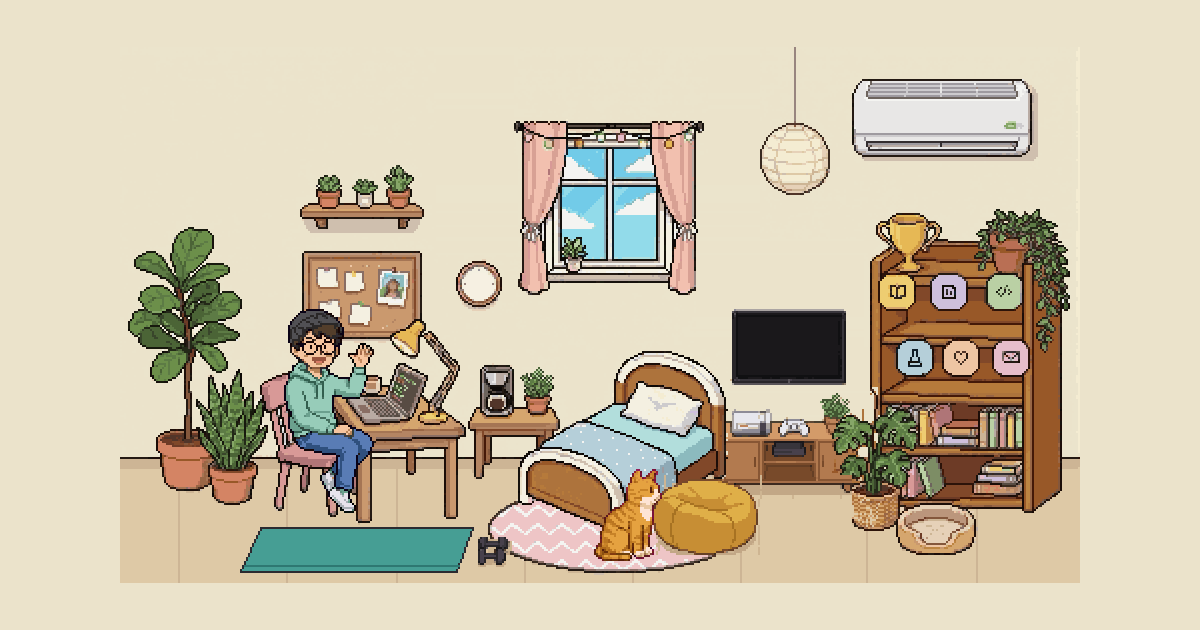
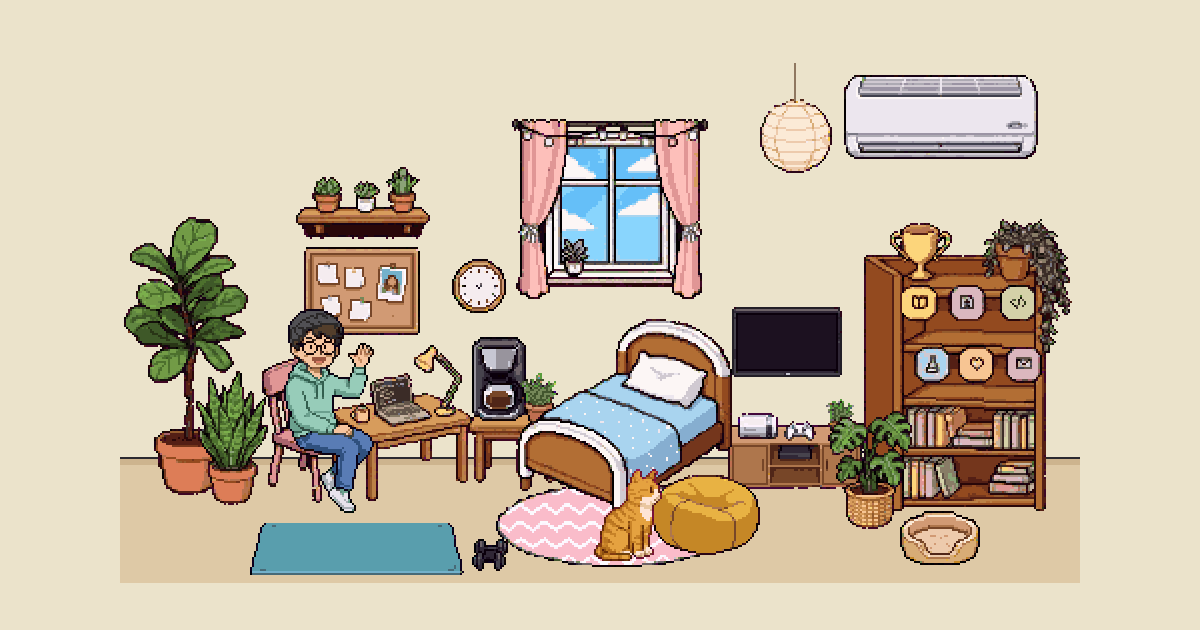
home: build the room from separate sprites
Cutting furniture out of one flat picture kept leaving broken edges and wrong
layers. Every piece is now drawn on its own in furniture.png and placed in code,
so depth is exact and the two layouts use the same art. Wall and floor are
painted, sleeping swaps the bed sprite, and the cat curls up in its own bed.

Changed region(s): [[0.0925, 0.181, 0.8942, 0.9349], [0.6167, 0.1206, 0.8633, 0.3317]]

diff --git a/sites/home/public/game.js b/sites/home/public/game.js
@@ -97,7 +97,7 @@
     tall: true,
     offs: {
       ac: [-356, -4], lantern: [-94, 0], window: [-192, 28], clock: [-58, 8], cork: [-77, 58], shelf: [-208, 48],
-      coffee: [-170, 56], desk: [-2, 168], bed: [-46, 210], bag: [-200, 62], mat: [-52, 180]
+      coffee: [-170, 56], desk: [-2, 168], bed: [-46, 210], bag: [-200, 62], mat: [-52, 180], succs: [8, 90]
     }
   };
   let L = WIDE;
@@ -109,15 +109,15 @@
 
   // Lights: id, group, x, y, radius
   const LIGHTS = [
-    { id: 'desk', group: 'desk', x: 146, y: 152, r: 74, c: '255,206,130' },
-    { id: 'lantern', group: 'lantern', x: 338, y: 58, r: 100, c: '255,224,170' },
-    { id: 'tv', group: 'shelf', x: 332, y: 150, r: 64, c: '150,190,255' }
+    { id: 'desk', group: 'desk', x: 152, y: 160, r: 74, c: '255,206,130' },
+    { id: 'lantern', group: 'lantern', x: 338, y: 46, r: 100, c: '255,224,170' },
+    { id: 'tv', group: 'shelf', x: 333, y: 150, r: 64, c: '150,190,255' }
   ];
-  const STRING = [[204, 48], [214, 48], [230, 46], [240, 45], [251, 44], [262, 45], [274, 48], [284, 44]];
-  const BULB_COLORS = ['#FFD36B', '#F4A9B8', '#9FE0B8', '#FFD36B', '#8FC8F0', '#F4A9B8', '#FFD36B', '#9FE0B8'];
-  const GLASS = { x: 219, y: 52, w: 52, h: 56 };
+  const STRING = [[202, 46], [214, 46], [240, 46], [250, 46], [267, 46], [285, 45]];
+  const BULB_COLORS = ['#FFD36B', '#F4A9B8', '#9FE0B8', '#FFD36B', '#8FC8F0', '#F4A9B8'];
+  const GLASS = { x: 220, y: 50, w: 55, h: 60 };
   const CLOCK = { x: 179, y: 119 };
-  const SCREEN = { x: 307, y: 133, w: 50, h: 34 };
+  const SCREEN = { x: 309, y: 133, w: 49, h: 28 };
   const VENT = { x: 372, y: 52, w: 78 };
 
   // Spots dev walks to (feet position)
@@ -133,20 +133,49 @@
     tall: [[210, 330], [60, 470], [244, 345], [130, 460]]
   };
 
-  // Furniture as pieces, so people can walk behind it. `base` is where it meets the
-  // floor: anyone whose feet are above that line is behind it.
-  const PIECES = [
-    { id: 'p-fig', group: 'desk', x: 2, y: 90, w: 60, h: 136, base: 224 },
-    { id: 'p-snake', group: 'desk', x: 38, y: 160, w: 34, h: 70, base: 229 },
-    { id: 'p-desk', group: 'desk', x: 104, y: 150, w: 70, h: 90, base: 238 },
-    { id: 'p-table', group: 'coffee', x: 174, y: 156, w: 47, h: 62, base: 218 },
-    { id: 'p-bed', group: 'bed', x: 200, y: 150, w: 104, h: 90, base: 240 },
-    { id: 'p-bag', group: 'bag', x: 264, y: 214, w: 58, h: 40, base: 254 },
-    { id: 'p-console', group: 'shelf', x: 304, y: 185, w: 72, h: 40, base: 224 },
-    { id: 'p-shelf', group: 'shelf', x: 375, y: 80, w: 101, h: 153, base: 232 },
-    { id: 'p-plant', group: 'shelf', x: 356, y: 180, w: 38, h: 62, base: 241 },
-    { id: 'p-catbed', group: 'shelf', x: 386, y: 226, w: 44, h: 30, base: 256 }
+  // Every piece of furniture is its own sprite in furniture.png: [x, y, w, h]
+  const KIT = {
+    shelf: [0, 0, 104, 146], fig: [105, 0, 62, 139], bed: [168, 0, 108, 104],
+    bedSleep: [277, 0, 108, 104], window: [386, 0, 98, 90], desk: [0, 147, 72, 78],
+    chair: [73, 147, 47, 73], snake: [121, 147, 36, 67], monstera: [158, 147, 42, 59],
+    lantern: [201, 147, 36, 55], console: [238, 147, 68, 49], consolePlain: [307, 147, 68, 49],
+    cork: [376, 147, 58, 44], ac: [0, 226, 97, 42], rug: [98, 226, 121, 42],
+    coffee: [220, 226, 27, 42], bag: [248, 226, 54, 40], table: [303, 226, 47, 37],
+    succs: [351, 226, 67, 36], tv: [419, 226, 55, 35], clock: [475, 226, 27, 27],
+    catbed: [0, 269, 40, 27], herb: [41, 269, 19, 26], mat: [61, 269, 108, 26],
+    dumbbells: [170, 269, 18, 16]
+  };
+
+  // The room, placed by hand. x, y are in the wide room; the tall room is the same
+  // furniture moved by group. `base` is where a thing meets the floor: anyone whose
+  // feet are above that line is behind it. No base means it's on the wall or flat on
+  // the floor, under everyone.
+  const ROOM = [
+    { id: 'window', sprite: 'window', group: 'window', x: 196, y: 36 },
+    { id: 'ac', sprite: 'ac', group: 'ac', x: 362, y: 14 },
+    { id: 'succs', sprite: 'succs', group: 'succs', x: 88, y: 60 },
+    { id: 'cork', sprite: 'cork', group: 'cork', x: 92, y: 100 },
+    { id: 'clock', sprite: 'clock', group: 'clock', x: 166, y: 106 },
+    { id: 'lantern', sprite: 'lantern', group: 'lantern', x: 320, y: 8 },
+    { id: 'tv', sprite: 'tv', group: 'shelf', x: 306, y: 130 },
+    { id: 'rug', sprite: 'rug', group: 'bed', x: 188, y: 218 },
+    { id: 'mat', sprite: 'mat', group: 'mat', x: 64, y: 238 },
+    { id: 'dumbbells', sprite: 'dumbbells', group: 'mat', x: 176, y: 246 },
+    { id: 'fig', sprite: 'fig', group: 'desk', x: 2, y: 85, base: 224 },
+    { id: 'snake', sprite: 'snake', group: 'desk', x: 38, y: 162, base: 229 },
+    { id: 'desk', sprite: 'desk', group: 'desk', x: 104, y: 149, base: 227 },
+    { id: 'table', sprite: 'table', group: 'coffee', x: 174, y: 181, base: 218 },
+    { id: 'coffee', sprite: 'coffee', group: 'coffee', x: 176, y: 145, base: 218.5 },
+    { id: 'herb', sprite: 'herb', group: 'coffee', x: 200, y: 163, base: 218.5 },
+    { id: 'bed', sprite: 'bed', group: 'bed', x: 198, y: 136, base: 240 },
+    { id: 'bag', sprite: 'bag', group: 'bag', x: 266, y: 214, base: 254 },
+    { id: 'console', sprite: 'console', group: 'shelf', x: 304, y: 176, base: 224 },
+    { id: 'shelf', sprite: 'shelf', group: 'shelf', x: 372, y: 86, base: 232 },
+    { id: 'monstera', sprite: 'monstera', group: 'shelf', x: 354, y: 182, base: 241 },
+    { id: 'catbed', sprite: 'catbed', group: 'shelf', x: 390, y: 232, base: 259 }
   ];
+  const ROOM_BY_ID = {};
+  ROOM.forEach((r) => { ROOM_BY_ID[r.id] = r; });
   const LANE = 256; // in the wide room everyone walks along the open floor in front of everything
   const AISLE = { x: 186, top: 392, bottom: 414, split: 395 }; // the tall room's gap between desk and bed
 
@@ -169,8 +198,8 @@
   }
 
   function drawChair() {
-    const [x, y] = at('desk', 64, 152);
-    ctx.drawImage(sprites.chair, ox + x + Math.round(CHAIR_OUT[0] * chair.t), oy + y + Math.round(CHAIR_OUT[1] * chair.t));
+    const [x, y] = at('desk', 71, 155);
+    sprite('chair', x + Math.round(CHAIR_OUT[0] * chair.t), y + Math.round(CHAIR_OUT[1] * chair.t));
   }
 
   // Feet positions to walk through, so nobody crosses a piece of furniture
@@ -184,31 +213,32 @@
 
   // Things to click. x, y, w, h are in the wide room.
   const THINGS = [
-    { id: 'ac', label: 'air conditioner', group: 'ac', x: 366, y: 16, w: 90, h: 40, act: () => toggleAC() },
-    { id: 'lantern', label: 'paper lantern', group: 'lantern', x: 320, y: 38, w: 36, h: 36, act: () => toggleLamp('lantern') },
-    { id: 'desk', label: 'desk lamp', group: 'desk', x: 135, y: 136, w: 24, h: 22, act: () => toggleLamp('desk') },
-    { id: 'window', label: 'window', group: 'window', x: 200, y: 38, w: 90, h: 86, act: () => sayDev(clockLine('it’s {t} here in Saigon')) },
-    { id: 'clock', label: 'clock', group: 'clock', x: 167, y: 106, w: 25, h: 25, act: () => sayDev(clockLine('{t}. should I be sleeping?')) },
-    { id: 'cork', label: 'cork board', group: 'cork', x: 91, y: 102, w: 60, h: 34, say: 'todo: fewer todos' },
-    { id: 'fig', label: 'fig tree', group: 'desk', x: 4, y: 90, w: 58, h: 100, say: 'taller than my last app' },
-    { id: 'snake', label: 'snake plant', group: 'desk', x: 38, y: 165, w: 34, h: 64, say: 'impossible to kill. tested.' },
-    { id: 'laptop', label: 'laptop', group: 'desk', x: 113, y: 158, w: 42, h: 28, say: 'no peeking, it’s full of bugs' },
-    { id: 'mug', label: 'mug', group: 'desk', x: 118, y: 163, w: 14, h: 12, act: () => sayDev('coffee number ' + (3 + Math.floor(Math.random() * 3))) },
-    { id: 'coffee', label: 'coffee machine', group: 'coffee', x: 178, y: 158, w: 24, h: 32, act: () => invite(() => visit(SPOTS.coffee), 'the real senior engineer') },
-    { id: 'herb', label: 'little herb', group: 'coffee', x: 200, y: 160, w: 20, h: 24, say: 'I forgot to water it again' },
-    { id: 'bed', label: 'bed', group: 'bed', x: 204, y: 152, w: 96, h: 90, act: () => invite(nap, 'not yet. one more commit.') },
-    { id: 'tv', label: 'TV', group: 'shelf', x: 304, y: 130, w: 56, h: 40, act: () => toggleTV() },
-    { id: 'console', label: 'game console', group: 'shelf', x: 306, y: 186, w: 44, h: 20, say: 'research. for work.' },
-    { id: 'bag', label: 'beanbag', group: 'bag', x: 266, y: 216, w: 54, h: 36, act: () => invite(playGames, 'best seat in the house') },
-    { id: 'mat', label: 'exercise mat', group: 'mat', x: 62, y: 240, w: 112, h: 22, act: () => invite(doPushUps, 'I use this. sometimes.') },
-    { id: 'monstera', label: 'monstera', group: 'shelf', x: 356, y: 182, w: 40, h: 58, say: 'she gets the best light' },
-    { id: 'catbed', label: 'cat bed', group: 'shelf', x: 388, y: 228, w: 40, h: 26, say: 'never used. he has my desk chair.' },
-    { id: 'trophy', label: 'trophy', group: 'shelf', x: 378, y: 83, w: 34, h: 28, say: 'I bought it myself' },
-    { id: 'pothos', label: 'pothos', group: 'shelf', x: 430, y: 82, w: 46, h: 66, say: 'it’s slowly taking the shelf' },
-    { id: 'books', label: 'books', group: 'shelf', x: 382, y: 176, w: 72, h: 52, say: 'read half of them. honest.' }
+    { id: 'ac', label: 'air conditioner', group: 'ac', x: 362, y: 14, w: 97, h: 42, act: () => toggleAC() },
+    { id: 'lantern', label: 'paper lantern', group: 'lantern', x: 320, y: 12, w: 36, h: 52, act: () => toggleLamp('lantern') },
+    { id: 'lamp', of: 'desk', label: 'desk lamp', group: 'desk', x: 144, y: 149, w: 30, h: 26, act: () => toggleLamp('desk') },
+    { id: 'window', label: 'window', group: 'window', x: 196, y: 36, w: 98, h: 90, act: () => sayDev(clockLine('it’s {t} here in Saigon')) },
+    { id: 'clock', label: 'clock', group: 'clock', x: 166, y: 106, w: 27, h: 27, act: () => sayDev(clockLine('{t}. should I be sleeping?')) },
+    { id: 'cork', label: 'cork board', group: 'cork', x: 92, y: 100, w: 58, h: 44, say: 'todo: fewer todos' },
+    { id: 'succs', label: 'little succulents', group: 'succs', x: 88, y: 60, w: 67, h: 36, say: 'the only ones I never forget' },
+    { id: 'fig', label: 'fig tree', group: 'desk', x: 2, y: 85, w: 62, h: 110, say: 'taller than my last app' },
+    { id: 'snake', label: 'snake plant', group: 'desk', x: 38, y: 165, w: 36, h: 62, say: 'impossible to kill. tested.' },
+    { id: 'laptop', of: 'desk', label: 'laptop', group: 'desk', x: 126, y: 163, w: 32, h: 24, say: 'no peeking, it’s full of bugs' },
+    { id: 'mug', of: 'desk', label: 'mug', group: 'desk', x: 114, y: 177, w: 12, h: 12, act: () => sayDev('coffee number ' + (3 + Math.floor(Math.random() * 3))) },
+    { id: 'coffee', label: 'coffee machine', group: 'coffee', x: 176, y: 145, w: 27, h: 42, act: () => invite(() => visit(SPOTS.coffee), 'the real senior engineer') },
+    { id: 'herb', label: 'little herb', group: 'coffee', x: 200, y: 163, w: 19, h: 26, say: 'I forgot to water it again' },
+    { id: 'bed', label: 'bed', group: 'bed', x: 200, y: 140, w: 104, h: 96, act: () => invite(nap, 'not yet. one more commit.') },
+    { id: 'tv', label: 'TV', group: 'shelf', x: 306, y: 130, w: 55, h: 35, act: () => toggleTV() },
+    { id: 'console', label: 'game console', group: 'shelf', x: 304, y: 176, w: 68, h: 49, say: 'research. for work.' },
+    { id: 'bag', label: 'beanbag', group: 'bag', x: 266, y: 214, w: 54, h: 40, act: () => invite(playGames, 'best seat in the house') },
+    { id: 'mat', label: 'exercise mat', group: 'mat', x: 64, y: 238, w: 108, h: 26, act: () => invite(doPushUps, 'I use this. sometimes.') },
+    { id: 'monstera', label: 'monstera', group: 'shelf', x: 354, y: 182, w: 42, h: 59, say: 'she gets the best light' },
+    { id: 'catbed', label: 'cat bed', group: 'shelf', x: 390, y: 232, w: 40, h: 27, say: 'never used. he has my desk chair.' },
+    { id: 'trophy', of: 'shelf', label: 'trophy', group: 'shelf', x: 386, y: 90, w: 32, h: 30, say: 'I bought it myself' },
+    { id: 'pothos', of: 'shelf', label: 'pothos', group: 'shelf', x: 432, y: 88, w: 44, h: 64, say: 'it’s slowly taking the shelf' },
+    { id: 'books', of: 'shelf', label: 'books', group: 'shelf', x: 392, y: 178, w: 72, h: 50, say: 'read half of them. honest.' }
   ];
-  [[378, 112], [404, 112], [432, 112], [387, 145], [410, 145], [435, 145]].forEach((p, i) => {
-    THINGS.push({ id: 'item' + i, label: ITEMS[i].name, group: 'shelf', x: p[0] - 2, y: p[1] - 2, w: 26, h: 26, act: () => openCard(i) });
+  [[389, 116], [413, 116], [438, 116], [395, 147], [417, 147], [440, 147]].forEach((p, i) => {
+    THINGS.push({ id: 'item' + i, of: 'shelf', label: ITEMS[i].name, group: 'shelf', x: p[0], y: p[1], w: 24, h: 24, act: () => openCard(i) });
   });
 
   // --------------------------------------------------------------------------
@@ -259,28 +289,6 @@
   // Clicks: the thing lights up for a moment and makes a small sound
   // --------------------------------------------------------------------------
   let flashing = null;
-  const shapes = new Map();
-
-  // The thing's own pixels, without the wall and floor behind it
-  function shapeOf(t) {
-    const key = t.id + (L.tall ? ':tall' : ':wide');
-    if (shapes.has(key)) return shapes.get(key);
-    const [x, y] = at(t.group, t.x, t.y);
-    const c = document.createElement('canvas');
-    c.width = t.w;
-    c.height = t.h;
-    const g = c.getContext('2d');
-    g.drawImage(sprites[L.tall ? 'roomTall' : 'roomWide'], -x, -y);
-    const data = g.getImageData(0, 0, t.w, t.h);
-    const d = data.data;
-    const near = (i, r, gr, b) => Math.abs(d[i] - r) + Math.abs(d[i + 1] - gr) + Math.abs(d[i + 2] - b) < 34;
-    for (let i = 0; i < d.length; i += 4) {
-      if (near(i, 235, 227, 203) || near(i, 222, 201, 166)) d[i + 3] = 0;
-    }
-    g.putImageData(data, 0, 0);
-    shapes.set(key, c);
-    return c;
-  }
 
   function flash(t) {
     if (t.group) flashing = { t, age: 0 };
@@ -294,11 +302,20 @@
       flashing = null;
       return;
     }
-    const [x, y] = at(flashing.t.group, flashing.t.x, flashing.t.y);
+    const t = flashing.t;
+    const r = ROOM_BY_ID[t.of || t.id];
+    if (!r) return;
     ctx.save();
+    if (t.of) {
+      // Part of a bigger sprite, like an icon on the shelf: a soft round patch of it
+      const [x, y] = at(t.group, t.x, t.y);
+      ctx.beginPath();
+      ctx.ellipse(ox + x + t.w / 2, oy + y + t.h / 2, t.w / 2, t.h / 2, 0, 0, Math.PI * 2);
+      ctx.clip();
+    }
     ctx.globalCompositeOperation = 'lighter';
     ctx.globalAlpha = 0.3 * k;
-    ctx.drawImage(shapeOf(flashing.t), ox + x, oy + y);
+    drawPiece(r);
     ctx.restore();
   }
 
@@ -574,7 +591,7 @@
     // Air conditioner
     const [vx, vy] = at('ac', VENT.x, VENT.y);
     ctx.fillStyle = isAcOn() ? '#6BE08A' : '#D0705A';
-    ctx.fillRect(ox + vx + 74, oy + vy - 18, 3, 2);
+    ctx.fillRect(ox + vx + 70, oy + vy - 13, 3, 2);
     if (isAcOn() && !still) {
       ctx.fillStyle = 'rgba(190,226,250,0.8)';
       for (let i = 0; i < 9; i++) {
@@ -601,7 +618,6 @@
     catWalk: ['cat-walk', 56, 56],
     catLie: ['cat-lie', 56, 56]
   };
-  const EXTRAS = { devSleep: 'dev-sleep', chair: 'chair' };
 
   const LOAD_LINES = [
     'watering the plants…',
@@ -835,6 +851,7 @@
 
   // Clicking his beanbag, mat or bed talks him into it
   function invite(go, line) {
+    if (dev.state === 'sleep') return sayDev(MUMBLES[0]);
     if (dev.state !== 'code' || isSleepTime()) return sayDev(line);
     sayDev('good idea');
     go();
@@ -949,11 +966,7 @@
   }
 
   function drawDev() {
-    if (dev.state === 'sleep') {
-      const [x, y] = at('bed', 185, 146);
-      if (sprites.devSleep) ctx.drawImage(sprites.devSleep, ox + x, oy + y);
-      return;
-    }
+    if (dev.state === 'sleep') return; // he's in the bed sprite
     const n = dev.sheet;
     if (n === 'push') return frame(n, dev.frames[dev.i], dev.x + 6, dev.y + 76, false);
     if (n === 'back') {
@@ -962,6 +975,11 @@
     }
     const y = SHEETS[n][2] === 120 ? dev.y + 36 : dev.y;
     frame(n, dev.frames[dev.i], dev.x, y, dev.flip);
+  }
+
+  function catInBed() {
+    const [x, y] = catBedSpot();
+    return Math.abs(cat.x - x) < 2 && Math.abs(cat.y - y) < 2;
   }
 
   function devFeet() {
@@ -976,24 +994,29 @@
     return Math.abs(dev.x - x) < 8 && Math.abs(dev.y - y) < 12;
   }
 
-  function drawPiece(p) {
-    const [x, y] = at(p.group, p.x, p.y);
-    ctx.drawImage(shapeOf(p), ox + x, oy + y);
+  function sprite(name, x, y) {
+    const [sx, sy, w, h] = KIT[name];
+    ctx.drawImage(sprites.kit, sx, sy, w, h, ox + x, oy + y, w, h);
+  }
+
+  function drawPiece(r) {
+    const [x, y] = at(r.group, r.x, r.y);
+    let name = r.sprite;
+    if (name === 'bed' && dev.state === 'sleep') name = 'bedSleep';
+    if (name === 'console' && dev.state === 'play') name = 'consolePlain';
+    sprite(name, x, y);
   }
 
   // Everything that stands on the floor, drawn back to front
   function drawDepth() {
     const dFeet = atDesk() ? at('desk', 0, 246)[1] : devFeet();
-    const cFeet = cat.y + 51;
-    const front = Math.min(dFeet, cFeet);
     const layers = [
-      { base: at('desk', 0, 236 + CHAIR_OUT[1] * chair.t)[1], draw: drawChair },
+      { base: at('desk', 0, 228 + CHAIR_OUT[1] * chair.t)[1], draw: drawChair },
       { base: dFeet, draw: drawDev },
-      { base: cFeet, draw: drawCat }
+      { base: catInBed() ? at('shelf', 0, 260)[1] : cat.y + 51, draw: drawCat }
     ];
-    PIECES.forEach((p) => {
-      const base = at(p.group, 0, p.base)[1];
-      if (base > front) layers.push({ base, draw: () => drawPiece(p) });
+    ROOM.forEach((r) => {
+      if (r.base) layers.push({ base: at(r.group, 0, r.base)[1], draw: () => drawPiece(r) });
     });
     layers.sort((a, b) => a.base - b.base).forEach((l) => l.draw());
   }
@@ -1059,7 +1082,7 @@
   }
 
   function catBedSpot() {
-    const [x, y] = at('shelf', 408, 246);
+    const [x, y] = at('shelf', 410, 254);
     return catFeet([x, y]);
   }
 
@@ -1263,18 +1286,29 @@
   // --------------------------------------------------------------------------
   // 9. LOOP
   // --------------------------------------------------------------------------
+  // Wall and floor are plain paint, so they fit any screen shape
   function drawRoom() {
-    const bg = sprites[L.tall ? 'roomTall' : 'roomWide'];
     const w = canvas.width;
     const h = canvas.height;
+    const line = oy + (L.tall ? 262 : 205);
     ctx.imageSmoothingEnabled = false;
     ctx.globalCompositeOperation = 'source-over';
-    // The wall and floor carry on past the picture on any screen shape
-    ctx.drawImage(bg, ox, oy);
-    ctx.drawImage(bg, 1, 0, 1, L.h, 0, oy, ox + 1, L.h);
-    ctx.drawImage(bg, L.w - 3, 0, 1, L.h, ox + L.w - 2, oy, w - ox - L.w + 2, L.h);
-    ctx.drawImage(canvas, 0, oy, w, 1, 0, 0, w, oy);
-    ctx.drawImage(canvas, 0, oy + L.h - 1, w, 1, 0, oy + L.h, w, h - oy - L.h);
+    ctx.fillStyle = '#EBE3CB';
+    ctx.fillRect(0, 0, w, line);
+    ctx.fillStyle = '#DEC9A6';
+    ctx.fillRect(0, line, w, h - line);
+    ctx.fillStyle = '#D3BD99';
+    for (let x = ox % 86; x < w; x += 86) ctx.fillRect(x, line + 4, 1, h - line - 4);
+    ctx.fillStyle = '#CDB48E';
+    ctx.fillRect(0, line + 1, w, 3);
+    ctx.fillStyle = '#2B2A30';
+    ctx.fillRect(0, line, w, 1);
+    const [cx, cy] = at('lantern', 338, 8);
+    ctx.fillStyle = '#8F7860';
+    ctx.fillRect(ox + cx, 0, 1, oy + cy + 1);
+    ROOM.forEach((r) => {
+      if (!r.base) drawPiece(r);
+    });
   }
 
   function hand(cx, cy, turn, length, color) {
@@ -1294,14 +1328,6 @@
     hand(ox + x, oy + y, new Date(Date.now()).getUTCSeconds() / 60, 6, '#D0505A');
   }
 
-  // In his hands now, so it leaves the console
-  function hidePad() {
-    if (dev.state !== 'play') return;
-    const bg = sprites[L.tall ? 'roomTall' : 'roomWide'];
-    const [x, y] = at('shelf', 328, 184);
-    ctx.drawImage(bg, x - 1, y, 1, 13, ox + x, oy + y, 19, 13);
-  }
-
   let last = 0;
   let slow = 0;
 
@@ -1313,7 +1339,6 @@
     stepChair(dt);
     drawRoom();
     drawClock();
-    hidePad();
     drawDepth();
     drawLight(now);
     drawZs(now);
@@ -1335,12 +1360,11 @@
 
   makeButtons();
   addEventListener('resize', resize);
-  toLoad = 4 + Object.keys(SHEETS).length + Object.keys(EXTRAS).length;
+  toLoad = 3 + Object.keys(SHEETS).length;
   const fonts = ['400 18px "Pixelify Sans"', '600 18px "Pixelify Sans"'].map((f) =>
     (document.fonts ? document.fonts.load(f) : Promise.resolve()).catch(() => {}).then(loadStep));
-  const assets = fonts.concat([load('roomWide', 'room-landscape'), load('roomTall', 'room-portrait')]);
+  const assets = fonts.concat([load('kit', 'furniture')]);
   Object.keys(SHEETS).forEach((k) => assets.push(load(k, SHEETS[k][0])));
-  Object.keys(EXTRAS).forEach((k) => assets.push(load(k, EXTRAS[k])));
   const atLeast = new Promise((r) => setTimeout(r, 700));
   Promise.all(assets.concat(atLeast)).then(() => {
     resize();

diff --git a/CLAUDE.md b/CLAUDE.md
@@ -19,7 +19,7 @@ repos (Bookmuse: `../bookmuse/`, read its `ROADMAP.md`; this repo's move is `spe
   (the `bookmuse_web` dashboard), not on the landing. The landing's Sign in buttons link straight to that dashboard.
 - Bookmuse's privacy policy and deletion page are linked from the apps, App Store Connect, Play Console, Google and Dropbox:
   when a Bookmuse feature changes what data is kept or sent, update en/vi/es together.
-- **Home's room** (`sites/home/public/`) is a pixel-art canvas game (`index.html`, `style.css`, `game.js`, no libraries): a fixed room you click around in, on Vietnam time. Art is in `public/assets/room/`: `room-landscape.png` (480x268) and `room-portrait.png` (270x580, the same furniture rearranged) plus sprite sheets. Assets are cached for 7 days, so give a replaced image a new name. Sunlight, lamps, night and weather are drawn in code, not baked in the art. `?hour=3` pins the clock for testing.
+- **Home's room** (`sites/home/public/`) is a pixel-art canvas game (`index.html`, `style.css`, `game.js`, no libraries): a room you click around in, on Vietnam time. There is no background picture: every piece of furniture is a sprite in `public/assets/room/furniture.png`, placed by hand in `ROOM` in `game.js` and drawn back to front by where it meets the floor. Wall, floor, sunlight, lamps and night are drawn in code. Wide and tall layouts move the same sprites by group. Assets are cached for 7 days, so give a replaced image a new name. `?hour=3` pins the clock for testing.
 - Run locally: `npm ci`, then `npm run dev:bookmuse` (http://localhost:8788) or `npm run dev:home` (http://localhost:8790).
 - **Deploy:** push a tag `<site>-vX.Y.Z` (`bookmuse-v1.0.0`, `home-v1.0.0`); `.github/workflows/deploy.yml` runs
   `wrangler deploy` for that site. Pushing to `main` never deploys. Never push a tag unless the owner asks.
